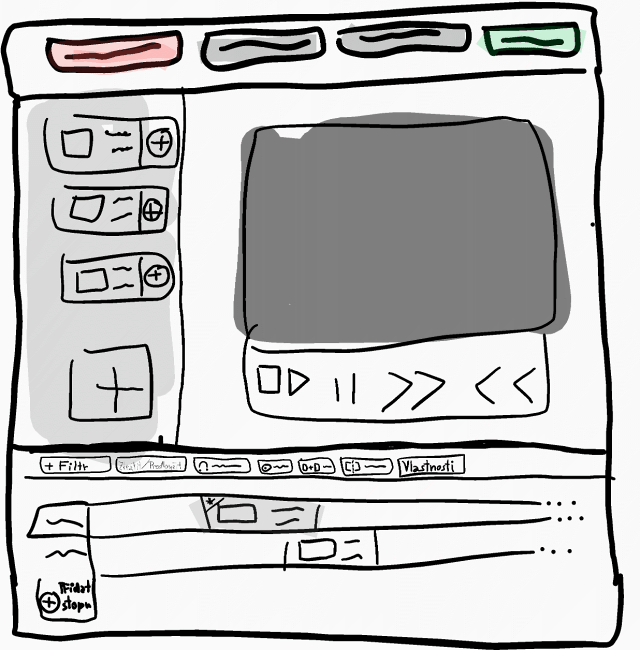
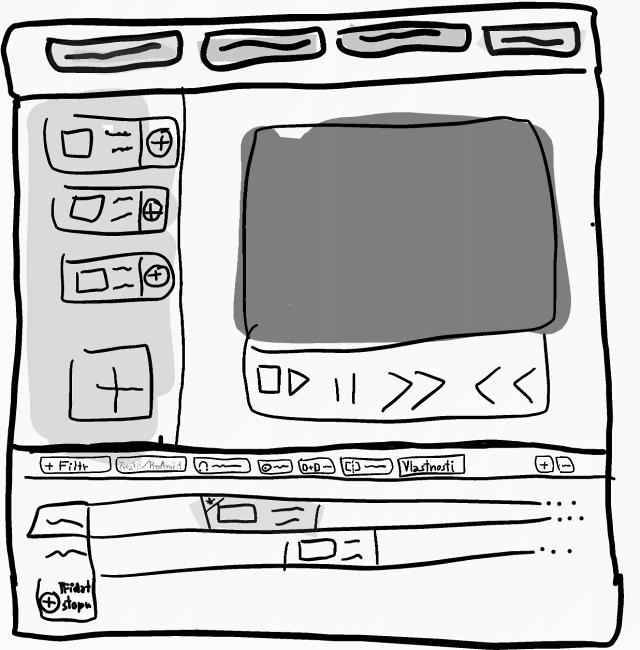
Complete solution design

Changed region(s): [[0.0938, 0.0308, 0.2812, 0.1231], [0.75, 0.0308, 0.9375, 0.0923], [0.8438, 0.6769, 0.9062, 0.7385]]

diff --git a/projekt-01-kapitoly-chapters.tex b/projekt-01-kapitoly-chapters.tex
@@ -57,7 +57,7 @@ Placená řešení se funkcemi i rozhraním blíží nativním aplikacím. Z~pla
 
 \textit{Animatron} slouží spíše k tvorbě krátkých upoutávek a reklam. Umožňuje v nejdražším předplatném vytvořit projekt o maximální délce 10 minut. Bezplatný plán neumožňuje stažení videa, pouze vystavení videa na sociálních sítích. Při práci s editorem jsem zaznamenal problém s různou orientací stejného videa napříč editorem.
 
-Pro nenáročné uživatele by mohl být dostačující nástroj \textit{Clipchamp}, který nabízí i bezplatný plán s~omezením rozlišení videí na 480p. Velikost projektu omezena není a video není opatřeno reklamním vodoznakem. Rozhraní je shodné s desktopovými programy, obrázek \ref{img:clipchamp}. Editor běží pouze v prohlížeči Google Chrome a zpracování videa probíhá na straně webového prohlížeče. Uživatel nesmí videoeditor během zpracovávání opustit. Doba zpracování videa o délce do 2 minut trvá i při rozlišení 480p cca 20 minut.
+Pro nenáročné uživatele by mohl být dostačující nástroj \textit{Clipchamp Create}, který nabízí i bezplatný plán s~omezením rozlišení videí na 480p. Velikost projektu omezena není a video není opatřeno reklamním vodoznakem. Rozhraní je shodné s desktopovými programy, obrázek \ref{img:clipchamp}. Editor běží pouze v prohlížeči Google Chrome a zpracování videa probíhá na straně webového prohlížeče. Uživatel nesmí videoeditor během zpracovávání opustit. Doba zpracování videa o délce do 2 minut trvá i při rozlišení 480p cca 20 minut.
 \begin{figure}[h]
 	\centering
 	\scalebox{0.5}{
@@ -123,10 +123,52 @@ V případě, že požadujeme online editor videí, ale zároveň potřebujeme m
 \end{table}
 
 \chapter{Návrh řešení}
-\section{Požadavky na řešení}
-Operace nad videi jsou členěny do několika částí, pro větší přehlednost uvádím diagram případů užití pro každou část zvlášť.
+Hlavním cílem práce je vytvořit videoeditor, který bude fungovat ve všech moderních prohlížečích a výsledné zpracování videa nebude probíhat na straně klienta. K dosažení těchto cílů bude za nutné vytvořit webovou aplikaci. Stejně jako stávající řešení by i tento editor měl provádět veškeré úkony pomocí JavaScriptu a asynchronních požadavků, bez nutnosti znovu načítat celou stránku. Vzhledem ke komplexnosti uživatelského rozhraní není vhodné zvolit čistý JavaScript. Vyplatí se sáhnout po JavaScriptovém frameworku, usnadňují časté operace, udržují dobré návyky a pomáhají vytvořit čistý kód.
 
-V~seznamu zdrojů je možné nahrávat obrázkové a video soubory. Podporované formáty video souborů jsou shodné s~formáty, které podporuje multimediální framework FFmpeg. Z~obrázkových souborů je podporován formát PNG a JPEG, obrázek \ref{img:ucd-zdroj}.
+Nejpoužívanějšími\footnote{Wappalyzer -- doplněk prohlížeče pro analýzu webových technologií, data od uživatelů agreguje do statistik, \url{https://www.wappalyzer.com/categories/javascript-frameworks}.} frameworky jsou: React, Backbone.js, RequireJS, AngularJS, nebo třeba Vue.js (používané programem \textit{fwf}). Z těchto frameworků jsem vybral React, který je zároveň i šablonovacím systémem a má kvalitní dokumentaci. Šablonovací systém používám zejména k rozdělení uživatelského rozhraní na komponenty.
+
+Webová aplikace bude potřebovat i serverovou část, na kterou klient nahraje soubory, popíše serveru operace nad soubory a dá pokyn pro vyhotovení výsledného videa. Tuto architekturu označujeme jako klient-server. Mezi klientem a serverem je nutné komunikovat. Pro výměnu dat po síti musejí obě části používat dohodnutý serializační formát. JavaScript nejčastěji používá \textit{XML} nebo \textit{JSON}. \textit{JSON} (JavaScriptový objektový zápis) je novější a zápis ve formátu \textit{JSON} je validním kódem JavaScriptu. \textit{XML} (rozšiřitelný značkovací jazyk) na druhou stranu umožňuje přenos binárních dat. Se serverem bude komunikovat JavaScript, volba formátu \textit{JSON} je tedy výhodná.
+
+Sever bude mít za úkol 2 činnosti. Nejprve bude muset uživateli poskytnout soubory s HTML, CSS a JavaScriptem a poté reagovat na JavaScriptové asynchronní požadavky. Při návrhu jsem se rozhodoval mezi implementací serveru pomocí jazyka PHP a pomocí Node.js. Jazyk PHP vznikal v době statických stránek a osobních webů, Node.js je obvykle spojován se single page aplikacemi. Node.js jsem si vybral právě protože plánuji vytvořit single page aplikaci, kvůli možnosti používat stejný jazyk pro klientskou i serverovou část a také kvůli asynchronnímu přístupu k blokujícím operacím. Po PHP bych naopak sáhl při tvorbě e-shopu, blogu či informačního systému.
+
+Server bude pro klienta dosputný skrze rozhraní (API). Rozhraní bude sloužit k vyvolání akcí na serveru i k získávání dat. Existuje více koncepcí pro komunikaci a tvorbu API, například \textit{XML-RPC}, \textit{SOAP} nebo \textit{REST}. \textit{XML-RPC} a \textit{SOAP} používají jako serializační formát pro výměnu dat \textit{XML}, kvůli JavaScriptu na střaně klienta i serveru jsem ovšem zvolil \textit{JSON}. \textit{REST} je způsob komunikace na základě HTTP požadavků. \textit{REST} není na HTTP vázaný, ale není praktický důvod používat odlišný protokol. Výchozím serializačním formátem pro výměnu dat je JSON, ovšem lze používat například i \textit{XML}.
+
+Multimediální soubory bude potřeba zpracovávat. \textit{Clipchamp Create} provádí zpracování na straně klienta ve webovém prohlížeči. Webový prohlížeč ani webové technologie ale nejsou navrženy na renderování videí, \textit{Clipchamp} vyvádí video déle, než bych byl ochotný čekat. Editor byl navržen aby zpracovával videa na serveru. K tomu může sloužit program \textit{FFmpeg} nebo \textit{MLT}. Program \textit{FFmpeg} používá například editor \textit{fwf} nebo Android aplikace \textit{Video Editor using FFmpeg}\footnote{Video Editor using FFmpeg -- open source editor videa pro android, \url{https://github.com/bhuvnesh123/FFmpeg-Video-Editor-Android}.}. \textit{FFmpeg} se používá skrze příkazový řádek. Každá operace představuje jeden příkaz (zkrátit video, přidat efekt, spojit videa). Na přadí operací záleží. Projekt by byl popsán souborem s posloupností příkazů pro FFmpeg, případně jedním dlouhým příkazem. Multimediální framework \textit{MLT} rovněž nabízí své nástroje skrze příkazový řádek. Projekt je možné popisovat posloupností příkazů a také pomocí serializačního formátu \textit{XML}. Celý projekt se popíše entitami \textit{XML} a programu \textit{MLT} se poté pouze předá \textit{XML} sobor. \textit{XML} soubor bude uložen po celou dobu na serveru a server jej bude editovat na základě požadavků klienta. \textit{REST API} je bezstavové, požadavek musí být úplný a stav projektu je uložen v \textit{XML} souboru projektu.
+
+\section{Návrh uživatelského rozhraní}
+Cílovou skupinou jsou počítačově gramotní uživatelé, kteří někdy používali program na editování videa. Rozhraní je voleno tak, aby připomínalo klasické desktopové aplikace a pomohlo uživatelům se zorientovat. Typickou úlohou pro videoeditor bude sestříhat záznam přednášky do výukového videa nebo vytvořit tutoriál ze záznamu z kamery nebo obrazovky. Aplikace bude využívána na na počítačích a noteboocích, není nutné přizpůsobovat rozhraní obrazovkám mobilních zařízení. Ovládání bude pomocí klávesnice a myši, dotekové obrazovky se sice nepředpokládají, ale ani nevylučují.
+
+Po načtení hlavní stránky se zobrazí úvodní stránka s možností vytvořit nový projekt. Stránka bude do budoucna připravena na rozšíření o další možnosti, jako jsou šablony, autentizace uživatelů, či seznam vlastních projektů. Pro zahájení editace uživatel zvolí \textit{Vytvořit nový projekt}, obrázek \ref{img:novy-projekt}.
+\begin{figure}[h]
+	\centering
+	\scalebox{0.5}{
+		\includegraphics{obrazky-figures/novy_projekt.png}
+	}
+	\caption{Úvodní obrazovka pro vytváření nových projektů.}\label{img:novy-projekt}
+\end{figure}
+
+Po vytvoření nového projektu se uživatel ocitne v rozhraní pro tvorbu videí. Aplikace je řešena jako single page aplikace. Uživatel po celou dobu pracuje na jedné obrazovce a i při dialozích je editor překryt pouze částečně, tak, aby měl uživatel pocit, že má svůj projekt po celou dobu pod kontrolou. Při návrhu uživatelského rozhraní editoru jsem se nejvíce inspiroval desktopovou aplikací \textit{iMovie}, \textit{Shotcut} a online nástrojem pro úpravu fotografií -- \textit{Photopea}\footnote{Photopea.com -- bezplatný editor fotografií, \url{https://www.photopea.com/}}.
+
+Uživatelské rozhraní editoru je rozděleno do 4 částí. Rozložení bylo navrženo a odzkoušeno na drátěném modelu, obrázek \ref{img:wireframe}.
+\begin{figure}[h]
+	\centering
+	\scalebox{0.3}{
+		\includegraphics{obrazky-figures/wireframe}
+	}
+	\caption{Drátěný model uživatelského rozhraní.}\label{img:wireframe}
+\end{figure}
+Na základě drátěného modelu byl zhotoven prototyp hlavního uživatelského rozhraní, obrázek \ref{img:mockup}.
+\begin{figure}[!h]
+	\centering
+	\scalebox{0.6}{
+		\includegraphics{obrazky-figures/mockup.png}
+	}
+	\caption{Prototyp uživatelského rozhraní.}\label{img:mockup}
+\end{figure}
+
+U horního obraje obrazovky se nachází panel nástrojů pro globální akce nad projektem -- zrušit úpravy nebo vyvést (dokončit) projekt. Do budoucna zde bude možnost přepínat jazykovou mutaci a možnost exportu nebo výmazu dat.
+
+Operace nad videi jsou členěny do 3 částí, tomu odpovídá a členění uživatelského rozhraní. V~levé části je seznam zdrojového materiálu (videí, obrázků, aj.), který je možné v~projektu použít. S~položkami seznamu se zdrojovým materiálem se pracuje přímo. Dostupné operace jsou zobrazeny po celou dobu. Pod poslední položkou se nachází tlačítko na přidání materiálu, případně je možné použít přetažení souboru do této oblasti. V~seznamu zdrojů je možné nahrávat obrázkové a video soubory. Podporované formáty video souborů jsou shodné s~formáty, které podporuje multimediální framework FFmpeg. Z~obrázkových souborů je podporován formát PNG a JPEG obrázek. Obrázek \ref{img:ucd-zdroj} zobrazuje diagram případů užití pro práci se zdrojovým materiálem.
 % [Uživatel]-(Nahrát video nebo obrázek),
 % [Uživatel]-(Odebrat video nebo obrázek),
 % [Uživatel]-(Vložit video na konec časové osy),
@@ -140,7 +182,20 @@ V~seznamu zdrojů je možné nahrávat obrázkové a video soubory. Podporované
 	\caption{Diagram případů užití pro práci se zdroji.}\label{img:ucd-zdroj}
 \end{figure}
 
-Časovou osu lze přibližovat a oddalovat tlačítky v~liště nástrojů časové osy. Pokud je časová osa přiblížena natolik, že není možné zobrazit všechny prvky časové osy, lze osu posouvat do stran uchopením prázdného místa na ose a přetažením osy do stran. V~novém projektu je k~dispozici jedna časová a jedna zvuková stopa. V~případě potřeby lze přidat novou stopu tlačítkem z~lišty nástrojů časové osy. K~dispozici je buď zvuková nebo video stopa. Odebrat ji lze tlačítkem vlevo pod názvem stopy. Kliknutím do prostoru časových hodnot osy se provede přemístění ukazatele aktuálního času, ukazatel lze rovněž uchopit a přesunout. V~čase ukazatele se bude přehrávat náhled videa a v~tomto čase lze provést střih videa, obrázek \ref{img:ucd-osa}.
+V~pravé polovině se nachází přehrávač předběžného náhledu výsledného videa. Přehrávač náhledu se ovládá tlačítky umístěnými přímo pod přehrávačem (přehrát, zastavit, skok na začátek nebo konec, skok na začátek nebo konec aktuální položky). Přehrávač přehrává pouze soubory umístěné na časové ose, nezobrazuje náhledy zdrojového materiálu. Aktuální pozici přehrávače udává ukazatel na časové ose. Přehrávání lze spustit původní rychlostí a pozastavit. K~manipulaci s~pozicí ve videu slouží skok na událost vpřed/vzad, který přesune ukazatel na nejbližší začátek nebo konec položky libovolné stopy, diagram případů užití zobrazuje obrázek \ref{img:ucd-prehravac}.
+% [Uživatel]-(Spustit přehrávání),
+% [Uživatel]-(Pozastavit přehrávání),
+% [Uživatel]-(Skok na událost vpřed nebo vzad),
+% [Uživatel]-(Další nebo předchozí snímek),
+\begin{figure}[!h]
+	\centering
+	\scalebox{0.4}{
+		\includegraphics{obrazky-figures/ucd-prehravac.pdf}
+	}
+	\caption{Diagram případů užití pro práci s~přehrávačem náhledu.}\label{img:ucd-prehravac}
+\end{figure}
+
+Ve spodní části je časová osa se zvukovými a obrazovými stopami. Časová osa zobrazuje pod sebou stopy v~pořadí, v~jakém byly vytvořeny. Stopy se přidávají a odebírají podle potřeby. Pokud uživatel uchopí položku a přetáhne ji pod poslední video/audio stopu, vytvoří se nová. Původní návrh počítal se zobrazováním názvů stop a manuálním přidávání stop. Po testování jsem se rozhodl odstínit uživatele od stop a nabídnout mu pracovní plochu, kde může přesouvat položky i vedle sebe, bez nutnosti řešit stopy. Položky se na časovou osu přidávají ze seznamu materiálu tlačítkem plus u~materiálu. Posun položek na časové ose se provede uchopením prvku a přetažením na nové místo, přesun na jinou časovou se provádí přetažením na jinou osu stejného typu. Uchopením položky za okraj lze měnit začátek nebo konec. U~každé položky je náhledový obrázek a textové informace o položce. S~vybranou položkou lze pracovat tlačítky na listě nástrojů u~horního okraje časové osy. V~aplikaci jsou dvě lišty nástrojů, globální akce a akce s~časovou osou. Pokud je na položku aplikován alespoň jeden filtr, zobrazí se v jejím levém horním rohu \uv{nálepka} s ikonou filtru. Časovou osu lze přibližovat a oddalovat tlačítky v~liště nástrojů časové osy. Pokud je časová osa přiblížena natolik, že není možné zobrazit všechny prvky časové osy, lze osu posouvat do stran uchopením prázdného místa na ose a přetažením osy do stran. V~novém projektu je k~dispozici prázdná zvuková a video stopa. Ukazatel aktuálního času lze uchopit a přesunout. V~čase ukazatele se bude přehrávat náhled videa a v~tomto čase lze provést střih videa, diagram případů užití -- obrázek \ref{img:ucd-osa}.
 % [Uživatel]-(Přiblížit časovou osu),
 % [Uživatel]-(Posunout časovou osu do stran),
 % [Uživatel]-(Přidat nebo odebrat časovou osu),
@@ -153,7 +208,7 @@ V~seznamu zdrojů je možné nahrávat obrázkové a video soubory. Podporované
 	\caption{Diagram případů užití pro práci s~časovou osou.}\label{img:ucd-osa}
 \end{figure}
 
-Po vybrání položky (videa nebo obrázku) na časové ose jsou k~dispozici v~panelu nástrojů časové osy následující akce. Položku lze smazat, okolní položky zůstávají, přechody se zruší. Lze přidat filtr obrazu (text, HTML překrytí, jas, kontrast, odstín, světlost, sytost, vyvážení bílé, otočit, velikost, poloha, ořezání, průhlednost, ostrost) nebo filtr zvuku (ztišit, zesílit/zeslabit). Přidat přechod mezi 2 položkami, položky s~přechody se při přesouvání chovají jako celek. Dále lze zobrazit souhrnné vlastnosti. Následující úkony se neprovádí přes panel nástrojů -- posun na časové ose se provede uchopením prvku a přetažením na nové místo, přesun na jinou časovou se provádí přetažením na jinou osu stejného typu a začátek nebo konec video souboru či délku obrázku lze změnit uchopením okraje položky a táhnutím na požadovanou pozici. Rozdělení v~bodě na 2 části se provede v~místě, na kterém je ukazatel časové osy, obrázek \ref{img:ucd-polozky}.
+Po vybrání položky (videa nebo obrázku) na časové ose jsou k~dispozici v~panelu nástrojů časové osy následující akce. Položku lze smazat, okolní položky zůstávají, přechody se zruší. Lze přidat filtr obrazu (text, HTML překrytí, jas, kontrast, odstín, světlost, sytost, vyvážení bílé, otočit, velikost, poloha, ořezání, průhlednost, ostrost) nebo filtr zvuku (ztišit, zesílit/zeslabit). Přidat přechod prolnutí mezi 2 položkami, položky s~přechody se při přesouvání chovají jako celek. Dále lze zobrazit souhrnné vlastnosti. Následující úkony se neprovádí přes panel nástrojů --  a začátek nebo konec video souboru či délku obrázku lze změnit uchopením okraje položky a táhnutím na požadovanou pozici. Akce s vybranou položkou zobrazuje diagram případů užití na obrázku \ref{img:ucd-polozky}.
 % [Uživatel]-(Posunout na časové ose),
 % [Uživatel]-(Přesunout na jinou časovou osu),
 % [Uživatel]-(Vybrat pro práci),
@@ -171,18 +226,9 @@ Po vybrání položky (videa nebo obrázku) na časové ose jsou k~dispozici v~p
 	\caption{Diagram případů užití pro práci s~položkami časové osy.}\label{img:ucd-polozky}
 \end{figure}
 
-V~pravé polovině se nachází přehrávač náhledu, ovládá se tlačítky pod přehrávačem. Aktuální pozici přehrávače udává ukazatel na časové ose. Přehrávání lze spustit původní rychlostí a pozastavit. K~manipulaci s~pozicí ve videu slouží skok na událost vpřed/vzad, který přesune ukazatel na nejbližší začátek nebo konec položky libovolné stopy. Pro nejjemnější doladění slouží skok na další/předchozí snímek, obrázek \ref{img:ucd-prehravac}.
-% [Uživatel]-(Spustit přehrávání),
-% [Uživatel]-(Pozastavit přehrávání),
-% [Uživatel]-(Skok na událost vpřed nebo vzad),
-% [Uživatel]-(Další nebo předchozí snímek),
-\begin{figure}[!h]
-	\centering
-	\scalebox{0.4}{
-		\includegraphics{obrazky-figures/ucd-prehravac.pdf}
-	}
-	\caption{Diagram případů užití pro práci s~přehrávačem náhledu.}\label{img:ucd-prehravac}
-\end{figure}
+Pokud je potřeba upřesnit, jakou akci chce uživatel provést (výběr filtru), zobrazí se rozbalovací nabídka. Vyžaduje-li akce zadání hodnot, zobrazí se modální okno. Modální okna jsou využívány i pro zobrazení vlastností. Nápověda k~prvkům je řešena pomocí informačních bublin (někdy též tooltip).
+
+Vyvedení videa (dokončení)
 
 Pokud má nový systém nahradit stávájící proces zpracování videa, musí zvládat všechny kroky úprav videa. V~Tabulce \ref{tab:uc1} uvádím v~současnosti nejčastější případ užití, kdy je potřeba oříznout začátek a konec videa a před video vložit úvodní obrazovku s~podmínkami použití.
 
@@ -213,42 +259,53 @@ Pokud má nový systém nahradit stávájící proces zpracování videa, musí 
     \label{tab:uc1}
 \end{table}
 
-\section{Uživatelské rozhraní}
-Při návrhu uživatelského rozhraní jsem se nejvíce inspiroval desktopovou aplikací \textit{Shotcut} a online nástrojem pro úpravu fotografií -- \textit{Photopea}\footnote{Photopea.com -- bezplatný editor fotografií, \url{https://www.photopea.com/}}.
-
-Uživatelské rozhraní je rozděleno do 3 částí. V~levé části se nachází seznam zdrojového materiálu (videí, obrázků, aj.), který je možné v~projektu použít. V~pravé části se nachází přehrávač předběžného náhledu výsledného videa. Ve spodní části je časová osa se zvukovými a obrazovými stopami. Rozložení bylo navrženo drátěným modelem, obrázek \ref{img:wireframe}.
-
-\begin{figure}[h]
-	\centering
-	\scalebox{0.3}{
-		\includegraphics{obrazky-figures/wireframe}
-	}
-	\caption{Drátěný model uživatelského rozhraní.}\label{img:wireframe}
-\end{figure}
-
-Globální akce, jako například zrušení či dokončení projektu, export projektu, jsou prováděny v~panelu nástrojů u~horního okraje obrazovky.
-
-Přehrávač náhledu se ovládá tlačítky umístěnými přímo pod přehrávačem (přehrát, zastavit, posun o~snímek, skok na začátek nebo konec). Přehrávač přehrává pouze soubory umístěné na časové ose, nezobrazuje náhledy zdrojového materiálu.
-
-S~položkami seznamu se zdrojovým materiálem se pracuje přímo. Po najetí nebo kliknutí na položku se zobrazí dostupné operace. Pod poslední položkou se nachází tlačítko na přidání materiálu, případně je možné použít přetažení souboru do oblasti seznamu.
-
-Časová osa zobrazuje pod sebou stopy v~pořadí, v~jakém byly přidány. Stopu lze odebrat či přidat novou zvukovou nebo obrazovou stopu tlačítkem pod poslední stopou. Položky se na časovou osu přidávají přetažením ze seznamu materiálu a nebo tlačítkem plus u~materiálu. Poloha položky se mění přetažením. Uchopením položky za okraj lze měnit začátek nebo konec. U~každé položky je náhledový obrázek a textové informace. S~vybranou položkou lze pracovat tlačítky na listě nástrojů u~horního okraje časové osy. V~aplikaci jsou dvě lišty nástrojů, globální akce a akce s~časovou osou. 
-
-Pokud je potřeba upřesnit, jakou akci chce uživatel provést (přidání filtru, osy), zobrazí se rozbalovací nabídka. Vyžaduje-li akce zadání hodnot, zobrazí se modální okno. Modální okna jsou využívány i pro zobrazení vlastností.
-
-Nápověda k~prvkům je řešena pomocí informačních bublin (někdy též tooltip), po najetí na položku na časové ose se zobrazí informační bublina s~vlastnostmi položky.
-
-\begin{figure}[h]
-	\centering
-	\scalebox{0.6}{
-		\includegraphics{obrazky-figures/mockup.png}
-	}
-	\caption{Prototyp uživatelského rozhraní.}\label{img:mockup}
-\end{figure}
-
-\section{Návrh architektury}
-
 \section{Návrh API}
+Stejně jako uživatelské rozhraní i serverové rozhraní je potřeba navrhnout a otestovat. Při návrhu je třeba dbát pravidel architektury \textit{REST}. \textit{REST} definuje, jakým způsobem lze pracovat s daty na serveru. K práci se využívají 4 metody -- vytvoření dat (Create), získání požadovaných dat (Retrieve), změnu (Update) a smazání dat (Delete). Tato čtveřice bývá označování zkratkou CRUD\,\cite{rest}.
+
+Nejprve jsem si ujasnil, jaké všechny operace bude API umožňovat. Jedná se o následující operace: vytvořit nový projekt, získat stav existujícího projektu, nahrát soubor ze zařízení, vložit nahraný soubor na časovou osu, přidat filtr, odebrat filtr, přidat přechod, odebrat přechod, posunout položku, rozdělit položku na 2 části, odebrat položku z časové osy, smazat nahraný soubor, vyvést (dokončit) projet, případně smazat projekt.
+
+Dalším krokem bylo identifikovat zdroje -- entity. Jednou z entit bude beze sporu \textbf{projekt}, dále \textbf{soubor} a \textbf{položka časové osy}. Dalšími entitami jsem určil \textbf{přechod} a \textbf{filtr}. Operace je možné provádět jen nad zdroji, po identifikaci zdrojů je potřeba přiřadit operace ke zdrojům.
+
+K projektu jsem přiřadil: vytvořit nový projekt, získat stav existujícího projektu, vyvést projet, smazat projekt. Nad souborem bude možné provádět: nahrát soubor ze zařízení, vložit nahraný soubor na časovou osu, smazat nahraný soubor. Položka časové osy bude umožňovat: posunout položku, rozdělit položku na 2 části, odebrat položku z časové osy. Filtr bude možné přidat a odebrat, stejně tak přechod bude možné přidat a odebrat.
+
+\textit{REST} ovšem rozlišuje 4 metody. Nyní je potřeba přiřadit operacím jednu z následujích metod: POST (Create), GET (Retrieve), PUT (Update), DELETE (Delete). Nové prostředky vytváříme při vytváření nového projektu, nahrávání souboru ze zařízení, přidání filtru a přechodu, pro tyto operace jsem zvolil metodu POST. Získávání stavu projektu je jednoznačně metoda GET. Pro rušení prostředků slouží metoda DELETE -- odebrání filtru, odebrání přechodu, odebrání položky z časové osy, smazání nahraného souboru, smazání projektu. Na zbývající operace jsem použil metodu PUT -- vložit nahraný soubor na časovou osu, posunout položku, rozdělit položku na 2 části.
+
+I ideálním případě nevzniknout kolize a každý zdroj bude mít přiřazenou maximálně jednu operaci k jedné HTTP metodě. V mém případě má zdroj \textbf{položka na časové ose} dvě metody PUT -- posunout položku, rozdělit položku na 2 části. V této chvíli je potřeba operace dále rozlišit, přesun identifikuji jako \texttt{move} a rozdělení položek jako \texttt{split}.
+
+Aby nemohlo dojít ke kolizi mezi URL určených pro webové stránky a pro API, mají veškeré požadavky na API prefix \texttt{api}. Do budoucna to umožní například verzovat API. Výsledný návrh API uvádím v následujícím seznamu:
+\begin{itemize}
+\item project
+\begin{itemize}
+\item POST: \texttt{/project}
+\item GET: \texttt{/project/\{projectID\}}
+\item DELETE: \texttt{/project/\{projectID\}}
+\item PUT: \texttt{/project/\{projectID\}}
+\end{itemize}
+\item file
+\begin{itemize}
+\item POST: \texttt{/project/\{projectID\}/file}
+\item DELTE: \texttt{/project/\{projectID\}/file/\{fileID\}}
+\item PUT: \texttt{/project/\{projectID\}/file/\{fileID\}}
+\end{itemize}
+\item filter
+\begin{itemize}
+\item POST: \texttt{/project/\{projectID\}/filter}
+\item DELETE: \texttt{/project/\{projectID\}/filter}
+\end{itemize}
+\item transition
+\begin{itemize}
+\item POST: \texttt{/project/\{projectID\}/transition}
+\item DELETE: \texttt{/project/\{projectID\}/transition}
+\end{itemize}
+\item item
+\begin{itemize}
+\item DELETE: \texttt{/project/\{projectID\}/item}
+\item PUT: \texttt{/project/\{projectID\}/item/move}
+\item PUT: \texttt{/project/\{projectID\}/item/split}
+\end{itemize}
+\end{itemize}
+
+Požadavek na \textit{REST} API musí být úplný, \textit{REST} API je bezstavové. Například požadavek DELETE \texttt{/project/\{projectID\}} je úplný, serveru říkáme, že má smazat projekt a zároveň i uvádíme identifkátor projektu. U některých požadavků je ale potřeba blíže specifikovat parametry požadavku. Například u požadavku POST: \texttt{/project/\{projectID\}/filter} nevíme, jaký filtr se má aplikovat a ani nevíme, na jakou položku. Vyjma metody GET mohou mít požadavky tělo s parametry. Parametry mohou být předány v libovolném formátu, v projektu používám \textit{application/json} a pro nahrávání souboru \textit{multipart/form-data}. Přechozí požadavek je upřesněn parametry \texttt{track}, \texttt{item}, \texttt{filter} a \texttt{params} (parametry filtru). Kompletní specifikace navrženého API se nachází v dokumentaci API.
 
 \chapter{Práce s multimédii}
 \section{MLT framework}
